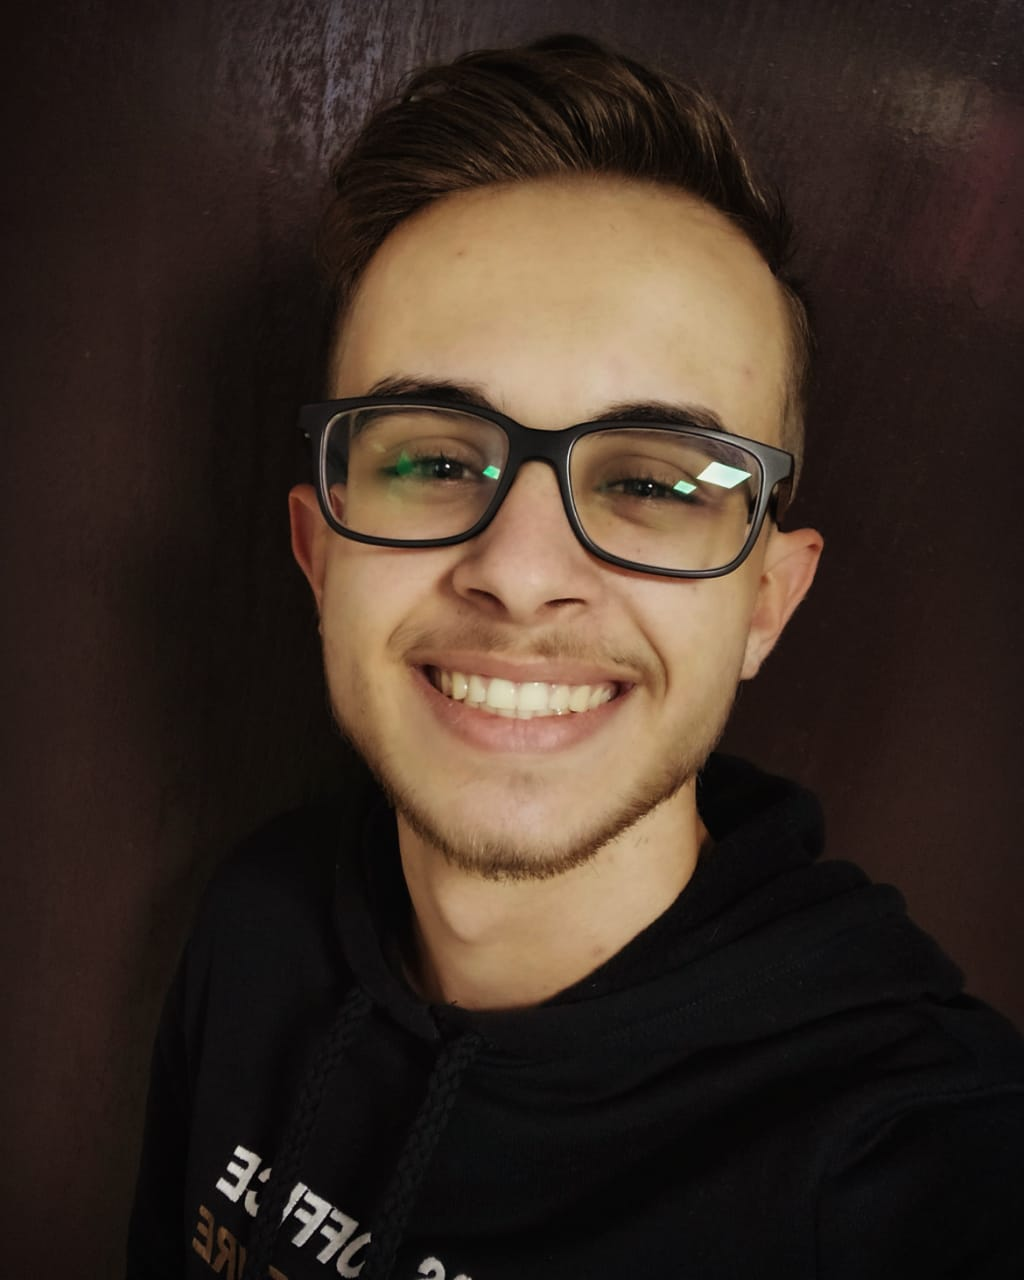
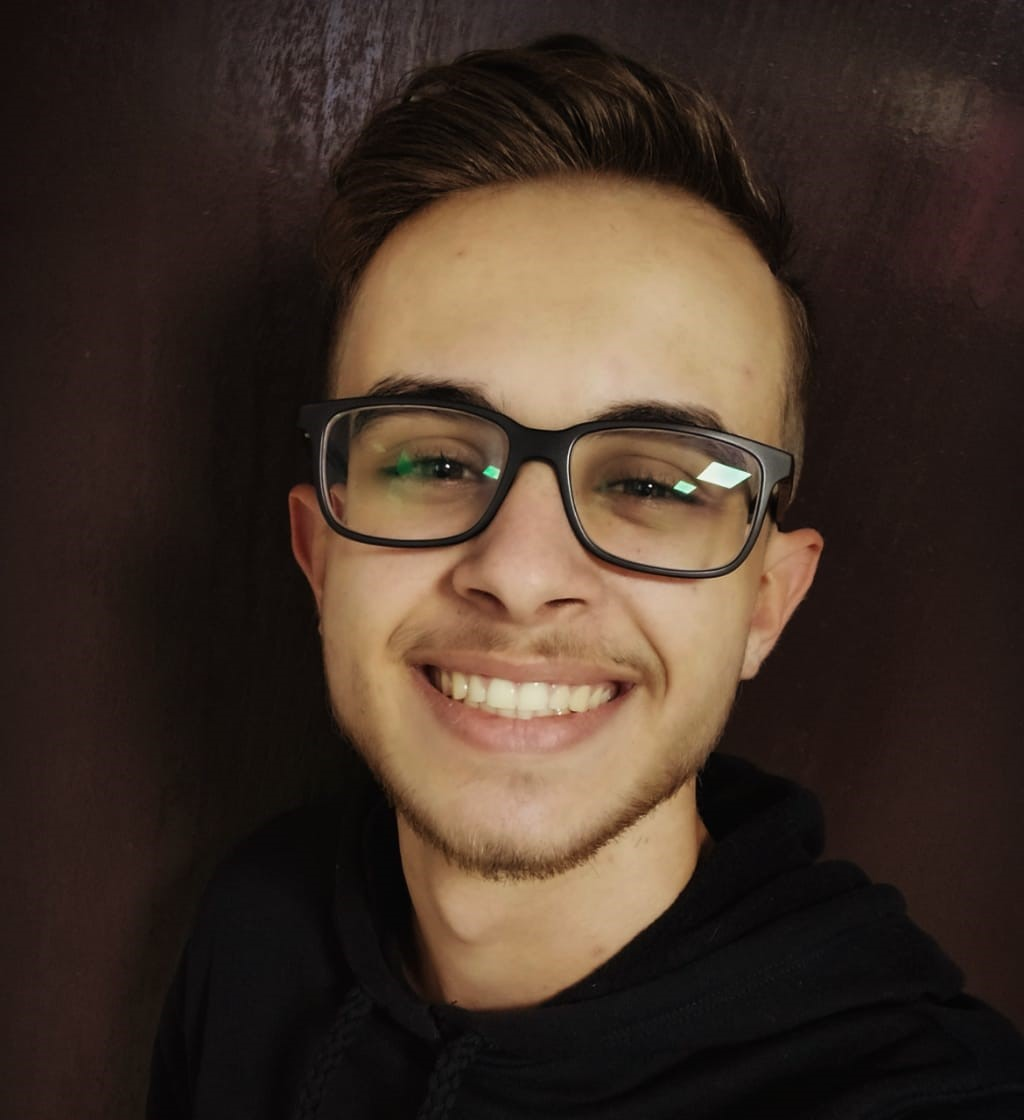
Quase pronto

diff --git a/index.html b/index.html
@@ -27,7 +27,7 @@
                 <nav>
                     <ul>
                         <li><a href="index.html">Home</a></li>
-                        <li><a href="">Contato</a></li>
+                        <li><a href="#contato">Contato</a></li>
                         <li><a href="#formulario">Inscreva-se</a></li>
                     </ul>
                 </nav>
@@ -117,59 +117,61 @@
 
             <br><br><br>
 
-            <section>
-                <h1>Integrantes</h1>
+            <section id="contato">
+                <h1 id="contato">Integrantes</h1>
                 <div id="integrantes">
-                    <ul>
-                        <li><img src="images/Gabriel.jpeg" alt="Gabriel"></li>
-                        <li><h2>Gabriel</h2></li>
-                    </ul>
-                </div>
-                <div class="integrantes">
-                    <ul>
-                        <li><img src="images/Brener.jpg" alt="Brener"></li>
-                        <li><h2>Brener</h2></li>
+                    <ul class="pessoa">
+                        <li class="centraliza-pessoa">
+                            <img src="images/Gabriel.jpeg" alt="Gabriel">
+                            <h2 class="nome">Gabriel</h2>
+                        </li>
+                        <li class="centraliza-pessoa">
+                            <img src="images/Brener.jpg" alt="Brener">
+                            <h2 class="nome">Brener</h2>
+                        </li>
                     </ul>
                 </div>
             </section>
 
-            <div class="textBox">
-                <div class="bar">
-                    <h1 class="modulo">Curso de AutoCAD Módulo Básico</h1>
-                    <img class="seta" src="images/seta.png">
+            <div class="meio">
+                <div class="textBox">
+                    <div class="bar">
+                        <h1 class="modulo">Curso de AutoCAD Módulo Básico</h1>
+                        <img class="seta" src="images/seta-branca.png">
+                    </div>
+                    <div class="hiddenBar">
+                        <p class="hiddenText">&ensp;&ensp;Nesta etapa do curso de AutoCAD, você aprenderá coisas, ferramentas básicas de desenho
+                            como formas geométricas noções de espaço, área de trabalho,  tipos de arquivos do AutoCAD,
+                            ferramentas de edição de desenhos,  camadas ou layes do AutoCAD, criar e editar blocos, coordenadas de desenho, propriedades de
+                            desenhos, tipos de linha, hatch comandos de alinhamento dentre  outros.
+                        </p>
+                    </div>
                 </div>
-                <div class="hiddenBar">
-                    <p class="hiddenText"> &ensp;  &ensp;Nesta etapa do curso de AutoCAD, você aprenderá coisas, ferramentas básicas de desenho
-                        como formas geométricas noções de espaço, área de trabalho,  tipos de arquivos do AutoCAD,
-                        ferramentas de edição de desenhos,  camadas ou layes do AutoCAD, criar e editar blocos, coordenadas de desenho, propriedades de
-                        desenhos, tipos de linha, hatch comandos de alinhamento dentre  outros. 
-                    </p>
+                <div class="textBox">
+                    <div class="bar">
+                        <h1 class="modulo">Curso de AutoCAD Módulo Intermediário</h1>
+                        <img class="seta2" src="images/seta-branca.png">
+                    </div>
+                    <div class="hiddenBar2">
+                        <p class="hiddenText">&ensp;&ensp;Nesta etapa do curso de AutoCAD, você aprenderá coisas como, criação de
+                            tabelas, personalizar comandos, todas as noções básicas de impressão,
+                             criar uma moldura para projetos, configurar o arquivo de penas ctb do
+                            AutoCAD, atributos de blocos,  dentre outros.
+                        </p>
+                    </div>
                 </div>
-            </div>
-            <div class="textBox">
-                <div class="bar">
-                    <h1 class="modulo">Curso de AutoCAD Módulo Intermediário</h1>
-                    <img class="seta2" src="images/seta.png">
-                </div>
-                <div class="hiddenBar2">
-                    <p class="hiddenText"> &ensp;  &ensp; Nesta etapa do curso de AutoCAD, você aprenderá coisas como, criação de
-                        tabelas, personalizar comandos, todas as noções básicas de impressão,
-                         criar uma moldura para projetos, configurar o arquivo de penas ctb do
-                        AutoCAD, atributos de blocos,  dentre outros.                         
-                    </p>
-                </div>
-            </div>
-            <div class="textBox">
-                <div class="bar">
-                    <h1 class="modulo">Curso de AutoCAD Módulo Avançado</h1>
-                    <img class="seta3" src="images/seta.png">
-                </div>
-                <div class="hiddenBar3">
-                    <p class="hiddenText"> &ensp; &ensp;Nesta etapa do curso de AutoCAD, você aprenderá coisas como, criação de
-                        blocos dinâmicos ou blocos inteligentes no AutoCAD, filtros de seleção
-                        avançados, criar referencias externas ferramentas avançadas do express
-                        tools, criar macros no AutoCAD dentre outros.
-                    </p>
+                <div class="textBox">
+                    <div class="bar">
+                        <h1 class="modulo">Curso de AutoCAD Módulo Avançado</h1>
+                        <img class="seta3" src="images/seta-branca.png">
+                    </div>
+                    <div class="hiddenBar3">
+                        <p class="hiddenText">&ensp;&ensp;Nesta etapa do curso de AutoCAD, você aprenderá coisas como, criação de
+                            blocos dinâmicos ou blocos inteligentes no AutoCAD, filtros de seleção
+                            avançados, criar referencias externas ferramentas avançadas do express
+                            tools, criar macros no AutoCAD dentre outros.
+                        </p>
+                    </div>
                 </div>
             </div>
 

diff --git a/css/hiddenBar.css b/css/hiddenBar.css
@@ -1,23 +1,30 @@
-.textBox{
-    padding: auto;
+.textBox {
+    text-align: center;
+    /*padding: auto;*/
     width: 700px;
-    margin:10px auto;
+    /*margin: 10px auto;*/
+    margin-top: 0px;
+    padding-top: 0px;
 }
 
 .modulo {
     margin:5px auto;
     width: 600px;
     color: whitesmoke;
-    font-size: 30px;
+    font-size: 20px;
     text-align: left;
     user-select: none;
 }
 
 .bar {
+    text-align: center;
     padding: 16px;
     background-color:#6726f2;
     display: flex;
     border-radius: 10px;
+    margin-top: 0px;
+    margin-bottom: 0px;
+    box-shadow: -5px 5px 9px rgba(50, 50, 50, 0.637);
 }
 
 .seta , .seta2 , .seta3 {
@@ -43,7 +50,6 @@
 
 .hiddenBar.active , .hiddenBar2.active , .hiddenBar3.active {
     margin: 0 auto;
-    
     box-sizing: border-box;
     overflow:hidden;
     max-height: 200px;
@@ -54,5 +60,15 @@
     width: 650px;
     margin: 10px auto;
     font-family: 'Raleway', sans-serif;
-    text-align: left;
+    text-align: justify;
+    font-size: 16px;
+    text-indent: 0px;
+}
+
+div.meio {
+    text-align: center;
+}
+
+.nome {
+    margin-left: 107px;
 }

diff --git a/css/topics.css b/css/topics.css
@@ -83,21 +83,41 @@ section {
 }
 
 section img {
-    max-height: 200px;
-    width: 200;
-    height: 200;
+    max-height: 250px;
+    max-width: 250px;
+    object-fit: cover;
+    width: 250px;
+    height: 250px;
     border-radius: 50%;
 }
 
 section h1 {
-    text-align: center;
     font-size: 35px;
 }
 
-section ul {
-    float: right;
+ul.pessoa {
+    text-align: center;
+    padding: 0px;
+    margin: 0px;
 }
 
-section li {
+#contato {
     text-align: center;
+}
+
+li.centraliza-pessoa {
+    text-align: center;
+    width: 100px;
+    height: 100px;
+    display: inline-block;
+    padding: 20px;
+    margin-right: 150px;
+    padding-right: 50px;
+}
+
+li h2 {
+    text-align: center;
+    padding-right: 0px;
+    margin-right: 0px;
+    /*margin-left: 107px;*/
 }

diff --git a/css/usuarios.css b/css/usuarios.css
@@ -1,4 +1,4 @@
-*{
+* {
     padding: 0;
     margin: 0;
 }
@@ -6,12 +6,10 @@
     background-color:none;
     height: 450px;
     width: 300px;
-    
 }
 
-.integrantes{
+.integrantes {
     margin: auto;
-    display: flex;
 }
 
 .user-img {
@@ -24,19 +22,8 @@
 }
 
 .element-text {
-background-color:none;
-margin: 20px auto;
-text-align: center;
-color:whitesmoke;
-}
-
-h1.nome {
-    font-size: 30px;
-    font-family: 'Franklin Gothic Medium', 'Arial Narrow', Arial, sans-serif;
-    
-}
-
-p.sobre {
-    font-size: 15px;
-    font-family:Verdana, Geneva, Tahoma, sans-serif ;
+    background-color:none;
+    margin: 20px auto;
+    text-align: center;
+    color:whitesmoke;
 }

diff --git a/css/integrantes.css b/css/integrantes.css
@@ -1,18 +1,20 @@
-.circle {
-    width: 250px;
-    height: 250px;
-    border-radius: 50%;
-    background-color: black; /*250px - imagem*/
-    margin: auto;
-}
-
-.integrantes {
-    width: 300px;
-    text-align: center;
-}
-
 #integrantes {
+    text-align: center;
     width: 50%;
     margin: auto;
-    display: flex;
+
+    /*width: 940px;
+    margin: 0 auto;
+    padding: 50px 0;
+
+    display: inline-block;
+    text-align: center;
+    width: 30%;
+    height: 47vh;
+    vertical-align: top;
+    margin: 0 1.5%;
+    margin-bottom: 30px;
+    padding: 30px 20px;
+    box-sizing: border-box;
+    line-height: 20px;*/
 }

diff --git a/css/styles.css b/css/styles.css
@@ -49,6 +49,7 @@ button {
     font-size: 15px;
     color: white;
     background-color: #6726f2;
+    margin-bottom: 50px;
 }
 
 video {

diff --git a/css/header.css b/css/header.css
@@ -10,8 +10,6 @@ body {
 .cabecalho {
     width: 100%;
     margin: 0px auto;
-    
-    
 }
 
 nav {
